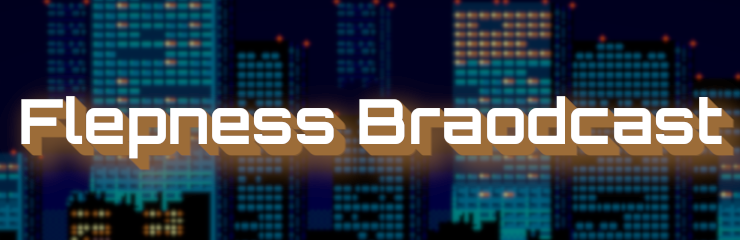
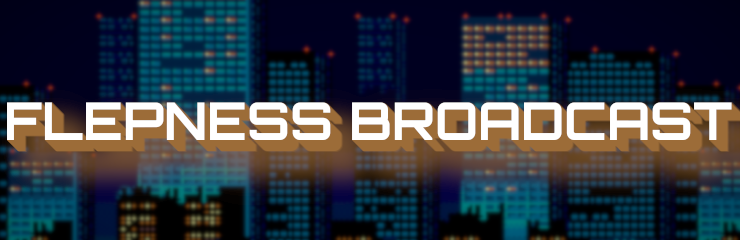
Fixed Flepness Broadcast header image.

diff --git a/css/main_css/style.css b/css/main_css/style.css
@@ -7,10 +7,12 @@
     --heading-font: 'Press Start 2P', cursive;
     --page-font: 'Orbitron', sans-serif;
     --textBlock-font: 'Changa', sans-serif;
-    --heading-shadow: #15446e;
-    --textBlock-bgc: #1C588C8C;
+    --heading-shadow: #15446e; 
+    /*--heading-shadow: #a66225;*/ 
+    --textBlock-bgc: #1C588C8C; 
+    /*--textBlock-bgc: #231f3a99; */
     --footer-bgc:#0e2c46;
-    --heading-fontSize: 200px;
+    --heading-fontSize: 250px;
 }
 
 a {
@@ -96,7 +98,7 @@ body {
     display: flex;
     flex-direction: column;
     align-items: center;
-    background-image: url(/assets/backgrounds/background.png);
+    background-image: url(/assets/backgrounds/pixel-space.png);
     background-attachment: fixed;
     background-size: cover;
     background-position: center;
@@ -110,7 +112,6 @@ h1 {
     font-weight: normal;
     font-size: var(--heading-fontSize);
     color: white;
-    background-color: #000;
     position: relative;
     text-shadow: 0px 9px var(--heading-shadow);
     margin-block: 0;

diff --git a/fp/flepness-broadcast/index.html b/fp/flepness-broadcast/index.html
@@ -20,7 +20,7 @@
         </div>
     </header>
         <section class="s1">
-		<img src="/assets/files/flepness-broadcast-header.png" alt="Flepness Broadcast Header.">
+		<img src="/assets/files/flepness-broadcast-header.png" alt="Flepness Broadcast Header Picture.">
 		<p>عرف سابقًا باسم فلبنس بارادايس برودكاست، فلبنس برودكاست أو إف بي هو برنامج أنشأ ويستضاف من قبل فلبتور ويرفع على يوتيوب، بينما اسمه 'برودكاست' في الحقيقة البرنامج غير مباشر. البرنامج بشكل رئيسي يتكلم عن خوادم الدسكورد التي كان لفلبتور دور اجتماعي فيها وقصصهم وأعضائهم وتاريخ تلك الخوادم، مخطط للبرنامج بأن يتكون من 14 حلقة ولا يزال قيد الإعداد.</p>
         </section>
 <section class="s2">

diff --git a/index.html b/index.html
@@ -42,7 +42,7 @@
         صفحة جديدة كليًا أضيفت للموقع والتي من خلالها بإمكانكم تفقُّد عملية تطوير فلبسايت بالتفصيل!
     </li>
     <hr>
-    <li><a href="#">أيلول23فر1</a><br>
+    <li><a href="/fp/flepness-paradise.html#sep23mn1">أيلو23فر1</a><br>
         آخر تحديث لفللبنس بارادايس للآن، والذي يجلب أفكار وميزات جديدة!
     </li>
     </ul>
@@ -62,7 +62,7 @@
 </style>
 <footer>
     <div class="ftrCol1">
-        لقد عدت! - بلال جمال حمدان - 2024.
+        طالب سنة ثانية :) - بلال جمال حمدان - 2024.
     </div>
     <div class="ftrCol2">
     <a href="/en/index.html"><i class="fa-solid fa-language"></i></a>

diff --git a/en/fp/flepness-broadcast/index.html b/en/fp/flepness-broadcast/index.html
@@ -20,7 +20,7 @@
         </div>
     </header>
         <section class="s1">
-		<img src="/assets/files/flepness-broadcast-header.png" alt="Flepness Broadcast Header.">
+		<img src="/assets/files/flepness-broadcast-header.png" alt="Flepness Broadcast Header Picture.">
                 <p>Formerly known as Flepness Paradise Broadcast, Flepness Broadcast or FB is a show founded and hosted by Fleptor and uploaded to Youtube, while being called a 'Broadcast' the actual show isn't live. The show mainly talks about Discord Servers which Fleptor had a role in, thier stories, members, and History. The show is planned to have 14 episodes and is currently in-making.</p>
         </section>
 <section class="s2">

diff --git a/about.html b/about.html
@@ -35,6 +35,7 @@
             <ul>
               <li class="utility1"><b>- </b><a style="color:blueviolet"href="/discord.html">دسكورد</a></li>
               <li class="utility1"><b>- </b><a style="color:pink"href="https://www.instagram.com/ifleptor/">إنستاجرام</a></li>
+              <li class="utility1"><b>- </b><a style="color:#1f91ff"href="https://www.facebook.com/profile.php?id=100011998937738">فيسبوك</a></li>
           </ul> 
           <hr class="utility1">
           <p class="utility2">أتطلع شوقًا للتواصل معكم!</p>

diff --git a/en/about.html b/en/about.html
@@ -35,6 +35,7 @@
         <ul>
           <li class="utility1"><b>- </b><a style="color:blueviolet"href="/en/discord.html">Discord</a></li>
           <li class="utility1"><b>- </b><a style="color:pink"href="https://www.instagram.com/ifleptor/">Instagram</a></li>
+              <li class="utility1"><b>- </b><a style="color:#1f91ff"href="https://www.facebook.com/profile.php?id=100011998937738">Facebook</a></li>
       </ul> 
       <hr class="utility1">
       <p class="utility2">Looking forward to contatcing you.</p>

diff --git a/css/fp_css/FBep_stylesheet.css b/css/fp_css/FBep_stylesheet.css
@@ -59,7 +59,7 @@ html { height: 100%; }
 body{
     margin: 0;
     padding: 0;
-    background-image: url(/assets/backgrounds/background.png);
+    background-image: url(/assets/backgrounds/pixel-space.png);
     background-size: cover;
     background-attachment: fixed;
     background-position: center;

diff --git a/css/bp_stylesheet.css b/css/bp_stylesheet.css
@@ -26,7 +26,7 @@
 body{
     padding: 0px;
     margin: 0px;
-    background-image: url(/assets/backgrounds/background.png);
+    background-image: url(/assets/backgrounds/pixel-space.png);
     background-size: cover;
     background-attachment: fixed;
     background-position: center;

diff --git a/css/main_css/about_stylesheet.css b/css/main_css/about_stylesheet.css
@@ -82,7 +82,7 @@
 body{
     padding: 0px;
     margin: 0px;
-    background-image: url(/assets/backgrounds/background.png);
+    background-image: url(/assets/backgrounds/pixel-space.png);
     background-attachment: fixed;
     background-size: cover;
     background-position: center;

diff --git a/css/main_css/fp_stylesheet.css b/css/main_css/fp_stylesheet.css
@@ -75,7 +75,7 @@
 body{
     padding: 0px;
     margin: 0px;
-    background-image: url(/assets/backgrounds/background.png);
+    background-image: url(/assets/backgrounds/pixel-space.png);
     background-size: cover;
     background-position: center;
     background-attachment: fixed;

diff --git a/css/main_css/blog_stylesheet.css b/css/main_css/blog_stylesheet.css
@@ -77,7 +77,7 @@
 body{
     margin: 0;
     padding: 0;
-    background-image: url(/assets/backgrounds/background.png);
+    background-image: url(/assets/backgrounds/pixel-space.png);
     background-attachment: fixed;
     background-size: cover;
     background-repeat: no-repeat;

diff --git a/css/fp_css/FB_stylesheet.css b/css/fp_css/FB_stylesheet.css
@@ -82,7 +82,7 @@
 body{
     margin: 0;
     padding: 0;
-    background-image: url(/assets/backgrounds/background.png);
+    background-image: url(/assets/backgrounds/pixel-space.png);
     background-size: cover;
     background-position: center;
     background-attachment: fixed;
